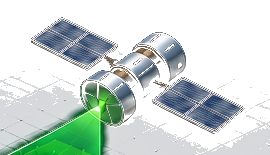
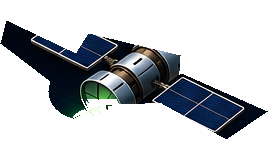
fix satellite animations and standby visuals

diff --git a/lib/main.dart b/lib/main.dart
@@ -167,11 +167,11 @@ class _LandingPageState extends State<LandingPage> {
               ),
             ),
             Positioned(
-              left: pageWidth * 0.050,
-              top: imageHeight * 0.116,
-              width: 14 * (pageWidth / 1536).clamp(0.85, 1.2),
-              height: 14 * (pageWidth / 1536).clamp(0.85, 1.2),
-              child: const IgnorePointer(child: _BlinkingAIDot()),
+              left: pageWidth * 0.042,
+              top: imageHeight * 0.103,
+              width: pageWidth * 0.122,
+              height: imageHeight * 0.033,
+              child: const IgnorePointer(child: _AIPillPulse()),
             ),
           ],
         ),
@@ -183,8 +183,21 @@ class _LandingPageState extends State<LandingPage> {
     return Stack(
       children: [
         Positioned.fill(
-            child: Image.asset(kEarthImg,
-                fit: BoxFit.cover, alignment: Alignment.topRight)),
+          child: DecoratedBox(
+            decoration: BoxDecoration(
+              gradient: RadialGradient(
+                center: const Alignment(0.66, -0.66),
+                radius: 1.28,
+                colors: [
+                  const Color(0xFF113427).withOpacity(0.96),
+                  const Color(0xFF071524),
+                  const Color(0xFF020914),
+                ],
+              ),
+            ),
+          ),
+        ),
+        const Positioned.fill(child: _DashboardGridBackdrop()),
         Positioned.fill(
           child: DecoratedBox(
             decoration: BoxDecoration(
@@ -245,7 +258,7 @@ class _LandingPageState extends State<LandingPage> {
                 _AnimatedLandingButton(
                     key: const ValueKey('landing-user-login-mobile'),
                     label: "User Login",
-                    icon: Icons.arrow_forward_rounded,
+                    icon: Icons.fingerprint_rounded,
                     onTap: _openLoginPage,
                     primary: true,
                     fullWidth: true),
@@ -401,16 +414,6 @@ class _LandingHotspotState extends State<_LandingHotspot>
                                 ),
                               ),
                             ),
-                          ),
-                          Positioned(
-                            right: 18 + (math.sin(t * math.pi * 2) * 3),
-                            top: 0,
-                            bottom: 0,
-                            child: Icon(Icons.arrow_forward_rounded,
-                                color: primary
-                                    ? Colors.black.withOpacity(0.45)
-                                    : accent.withOpacity(0.85),
-                                size: 22),
                           ),
                         ],
                       ),
@@ -600,6 +603,57 @@ class _BlinkingAIDotState extends State<_BlinkingAIDot>
   }
 }
 
+class _AIPillPulse extends StatefulWidget {
+  const _AIPillPulse();
+
+  @override
+  State<_AIPillPulse> createState() => _AIPillPulseState();
+}
+
+class _AIPillPulseState extends State<_AIPillPulse>
+    with SingleTickerProviderStateMixin {
+  late final AnimationController _controller;
+
+  @override
+  void initState() {
+    super.initState();
+    _controller =
+        AnimationController(vsync: this, duration: const Duration(seconds: 2))
+          ..repeat(reverse: true);
+  }
+
+  @override
+  void dispose() {
+    _controller.dispose();
+    super.dispose();
+  }
+
+  @override
+  Widget build(BuildContext context) {
+    return AnimatedBuilder(
+      animation: _controller,
+      builder: (context, child) {
+        final value = Curves.easeInOut.transform(_controller.value);
+        return DecoratedBox(
+          decoration: BoxDecoration(
+            borderRadius: BorderRadius.circular(999),
+            border: Border.all(
+                color: const Color(0xFF39FF14).withOpacity(0.10 + value * 0.22),
+                width: 1.0),
+            boxShadow: [
+              BoxShadow(
+                  color:
+                      const Color(0xFF39FF14).withOpacity(0.04 + value * 0.18),
+                  blurRadius: 12 + value * 18,
+                  spreadRadius: value * 3),
+            ],
+          ),
+        );
+      },
+    );
+  }
+}
+
 class _ReferenceSatelliteScanLayer extends StatefulWidget {
   final double scale;
   final bool isMobile;
@@ -640,25 +694,27 @@ class _ReferenceSatelliteScanLayerState
           builder: (context, _) {
             final t = _controller.value * math.pi * 2;
             final drift =
-                math.sin(t) * (widget.isMobile ? 12 : 9) * widget.scale;
+                math.sin(t) * (widget.isMobile ? 8 : 9) * widget.scale;
             final satelliteWidth =
-                (widget.isMobile ? 178.0 : 270.0) * widget.scale;
+                (widget.isMobile ? 148.0 : 270.0) * widget.scale;
             final satelliteHeight = satelliteWidth * 155 / 270;
             final baseLeft = widget.isMobile
-                ? constraints.maxWidth * 0.52
+                ? constraints.maxWidth * 0.58
                 : constraints.maxWidth * 0.602;
             final baseTop = widget.isMobile
-                ? constraints.maxHeight * 0.095
+                ? constraints.maxHeight * 0.070
                 : constraints.maxHeight * 0.018;
             final satelliteLeft = baseLeft + drift;
             final satelliteTop =
                 baseTop + math.cos(t * 0.85) * 5 * widget.scale;
             final satelliteCenter = Offset(
-              satelliteLeft + satelliteWidth * 0.42,
-              satelliteTop + satelliteHeight * 0.53,
+              satelliteLeft + satelliteWidth * 0.30,
+              satelliteTop + satelliteHeight * 0.58,
             );
-            final beamSize = Size(140 * widget.scale, 205 * widget.scale);
-            final ringSize = 88 * widget.scale;
+            final beamSize = widget.isMobile
+                ? Size(102 * widget.scale, 156 * widget.scale)
+                : Size(140 * widget.scale, 205 * widget.scale);
+            final ringSize = (widget.isMobile ? 70 : 88) * widget.scale;
 
             return Stack(
               clipBehavior: Clip.none,
@@ -695,11 +751,11 @@ class _ReferenceSatelliteScanLayerState
                 ),
                 Positioned(
                   left: satelliteCenter.dx - beamSize.width * 0.50,
-                  top: satelliteCenter.dy + 26 * widget.scale,
+                  top: satelliteCenter.dy + 8 * widget.scale,
                   width: beamSize.width,
                   height: beamSize.height,
                   child: Transform.rotate(
-                    angle: widget.isMobile ? -0.20 : -0.10,
+                    angle: widget.isMobile ? -0.13 : -0.10,
                     child: CustomPaint(
                         painter:
                             _ScanningConePainter(progress: _controller.value)),
@@ -813,6 +869,102 @@ class _PulseRingPainter extends CustomPainter {
 
   @override
   bool shouldRepaint(covariant _PulseRingPainter oldDelegate) =>
+      oldDelegate.progress != progress;
+}
+
+class _DashboardStandbySatellite extends StatefulWidget {
+  const _DashboardStandbySatellite();
+
+  @override
+  State<_DashboardStandbySatellite> createState() =>
+      _DashboardStandbySatelliteState();
+}
+
+class _DashboardStandbySatelliteState extends State<_DashboardStandbySatellite>
+    with SingleTickerProviderStateMixin {
+  late final AnimationController _controller;
+
+  @override
+  void initState() {
+    super.initState();
+    _controller =
+        AnimationController(vsync: this, duration: const Duration(seconds: 5))
+          ..repeat();
+  }
+
+  @override
+  void dispose() {
+    _controller.dispose();
+    super.dispose();
+  }
+
+  @override
+  Widget build(BuildContext context) {
+    return AnimatedBuilder(
+      animation: _controller,
+      builder: (context, child) {
+        final t = _controller.value * math.pi * 2;
+        final drift = Offset(math.sin(t) * 8, math.cos(t * 0.8) * 5);
+        return Stack(
+          clipBehavior: Clip.none,
+          children: [
+            Positioned.fill(
+              child: CustomPaint(
+                  painter:
+                      _SatelliteSignalPainter(progress: _controller.value)),
+            ),
+            Positioned(
+              left: 18 + drift.dx,
+              top: 10 + drift.dy,
+              right: 0,
+              child: Transform.rotate(
+                angle: -0.10 + math.sin(t) * 0.04,
+                child: Image.asset(kSatelliteCutoutImg,
+                    fit: BoxFit.contain,
+                    filterQuality: FilterQuality.high,
+                    errorBuilder: (context, error, stackTrace) => const Icon(
+                        Icons.satellite_alt_rounded,
+                        color: Color(0xFF39FF14),
+                        size: 46)),
+              ),
+            ),
+          ],
+        );
+      },
+    );
+  }
+}
+
+class _SatelliteSignalPainter extends CustomPainter {
+  final double progress;
+
+  const _SatelliteSignalPainter({required this.progress});
+
+  @override
+  void paint(Canvas canvas, Size size) {
+    final origin = Offset(size.width * 0.40, size.height * 0.57);
+    for (int i = 0; i < 4; i++) {
+      final p = (progress + i / 4) % 1;
+      final radius = size.shortestSide * (0.14 + p * 0.62);
+      final alpha = (1 - p).clamp(0.0, 1.0);
+      canvas.drawCircle(
+          origin,
+          radius,
+          Paint()
+            ..style = PaintingStyle.stroke
+            ..strokeWidth = 1.3
+            ..color = const Color(0xFF39FF14).withOpacity(alpha * 0.55));
+    }
+    canvas.drawCircle(
+        origin,
+        5,
+        Paint()
+          ..color = const Color(0xFF39FF14)
+          ..maskFilter = const MaskFilter.blur(BlurStyle.normal, 8));
+  }
+
+  @override
+  bool shouldRepaint(covariant _SatelliteSignalPainter oldDelegate) =>
       oldDelegate.progress != progress;
 }
 
@@ -959,11 +1111,23 @@ class _LoginPageState extends State<LoginPage> {
         return Stack(
           children: [
             Positioned.fill(
-              child: Image.asset(kEarthImg,
-                  fit: BoxFit.cover,
-                  alignment:
-                      isMobile ? Alignment.topRight : Alignment.topCenter),
+              child: DecoratedBox(
+                decoration: BoxDecoration(
+                  gradient: RadialGradient(
+                    center: isMobile
+                        ? const Alignment(0.75, -0.70)
+                        : const Alignment(0.52, -0.62),
+                    radius: 1.15,
+                    colors: [
+                      const Color(0xFF0F2E2D).withOpacity(0.92),
+                      const Color(0xFF071321),
+                      const Color(0xFF020914),
+                    ],
+                  ),
+                ),
+              ),
             ),
+            const Positioned.fill(child: _DashboardGridBackdrop()),
             Positioned.fill(
               child: DecoratedBox(
                 decoration: BoxDecoration(
@@ -1161,7 +1325,7 @@ class _LoginPageState extends State<LoginPage> {
               const SizedBox(height: 22),
               _AnimatedLandingButton(
                   label: "Login to Dashboard",
-                  icon: Icons.arrow_forward_rounded,
+                  icon: Icons.fingerprint_rounded,
                   onTap: _login,
                   primary: true,
                   fullWidth: true),
@@ -2327,13 +2491,17 @@ class _DashboardScreenState extends State<DashboardScreen>
                     key: const ValueKey("poster"),
                     width: double.infinity,
                     height: double.infinity,
-                    decoration: const BoxDecoration(
+                    decoration: BoxDecoration(
                       color: Color(0xFF020914),
-                      image: DecorationImage(
-                          image: AssetImage(kLandingReferenceImg),
-                          fit: BoxFit.cover,
-                          alignment: Alignment.topRight,
-                          opacity: 0.34),
+                      gradient: LinearGradient(
+                        begin: Alignment.topLeft,
+                        end: Alignment.bottomRight,
+                        colors: [
+                          const Color(0xFF020914),
+                          const Color(0xFF09211F).withOpacity(0.96),
+                          const Color(0xFF07111E),
+                        ],
+                      ),
                     ),
                     child: Stack(
                       children: [
@@ -2352,10 +2520,13 @@ class _DashboardScreenState extends State<DashboardScreen>
                             ),
                           ),
                         ),
-                        const Positioned.fill(
-                          child: IgnorePointer(
-                              child: _ReferenceSatelliteScanLayer(
-                                  scale: 0.78, isMobile: false)),
+                        Positioned(
+                          right: isMobile ? 12 : 22,
+                          top: isMobile ? 12 : 18,
+                          width: isMobile ? 116 : 180,
+                          height: isMobile ? 86 : 128,
+                          child: const IgnorePointer(
+                              child: _DashboardStandbySatellite()),
                         ),
                         Center(
                           child: Container(
@@ -5034,8 +5205,19 @@ class _DashboardScreenState extends State<DashboardScreen>
       body: Stack(
         children: [
           Positioned.fill(
-            child: Image.asset(kEarthImg,
-                fit: BoxFit.cover, alignment: Alignment.topCenter),
+            child: DecoratedBox(
+              decoration: BoxDecoration(
+                gradient: RadialGradient(
+                  center: const Alignment(0.45, -0.58),
+                  radius: 1.1,
+                  colors: [
+                    const Color(0xFF123329).withOpacity(0.95),
+                    const Color(0xFF071321),
+                    const Color(0xFF020914),
+                  ],
+                ),
+              ),
+            ),
           ),
           Positioned.fill(
             child: DecoratedBox(
@@ -5052,10 +5234,6 @@ class _DashboardScreenState extends State<DashboardScreen>
             ),
           ),
           const Positioned.fill(child: _DashboardGridBackdrop()),
-          const Positioned.fill(
-              child: IgnorePointer(
-                  child: _ReferenceSatelliteScanLayer(
-                      scale: 0.95, isMobile: false))),
           Center(
             child: Container(
               width: 560,